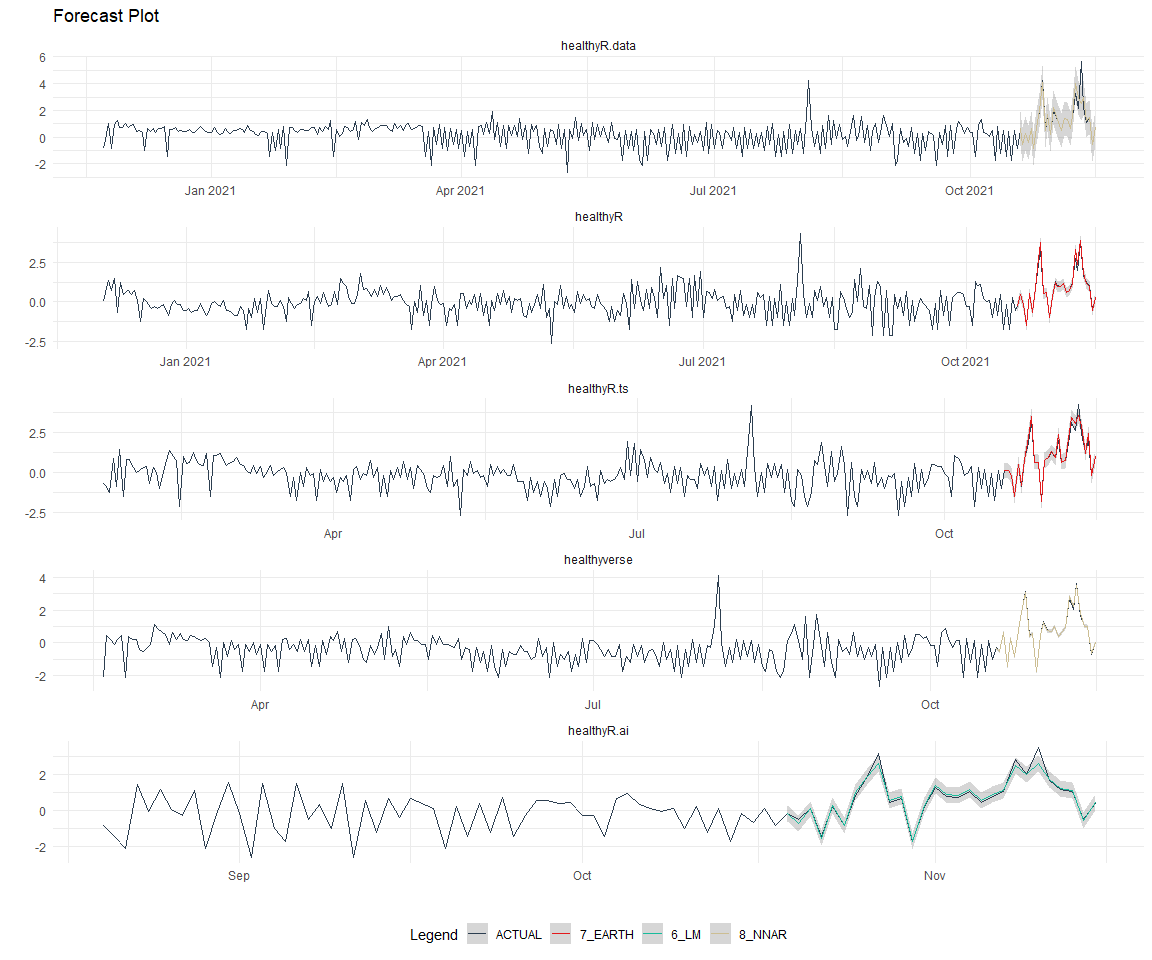
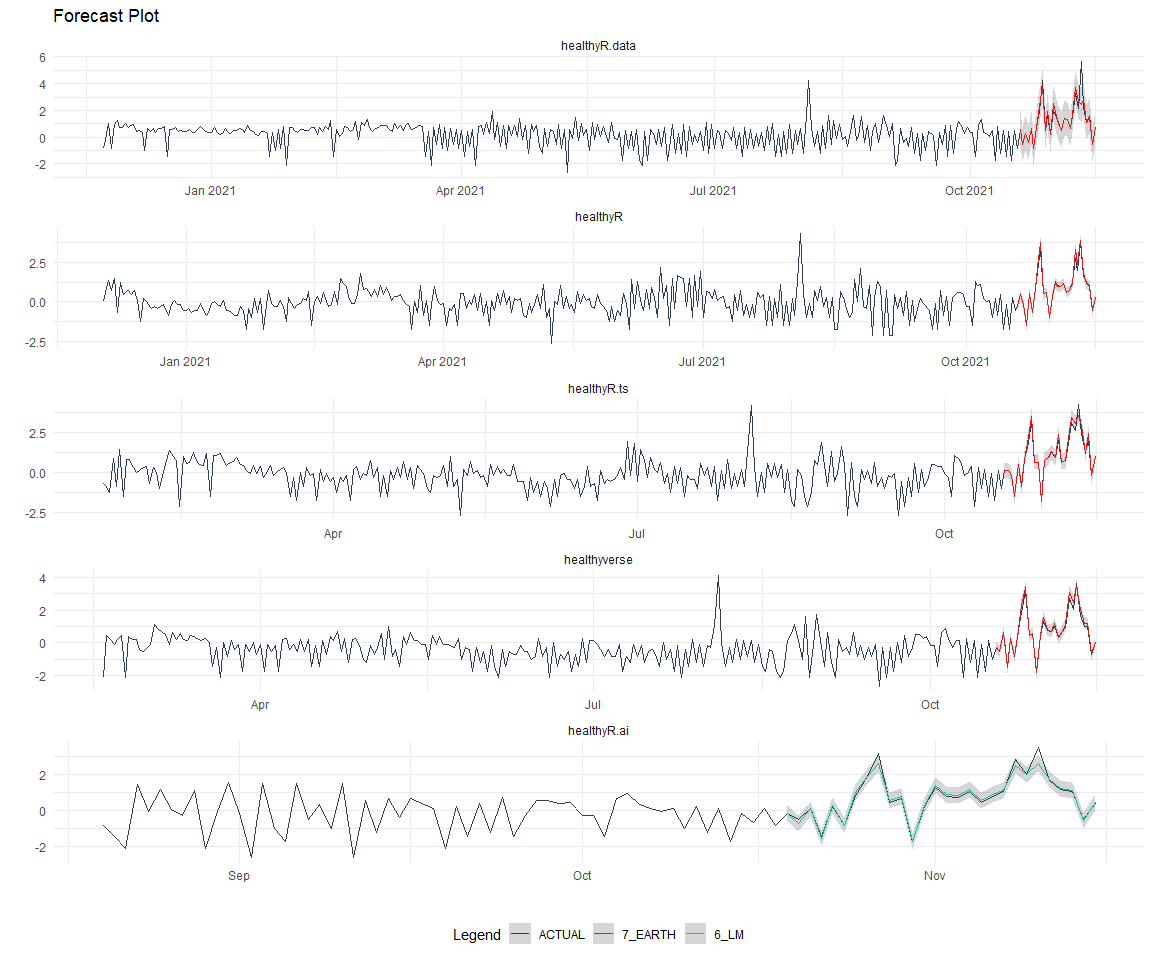
udpates

Changed region(s): [[0.3438, 0.9375, 0.6875, 1.0], [0.8438, 0.625, 0.9375, 0.6875], [0.9062, 0.0938, 0.9375, 0.125]]

diff --git a/README.md b/README.md
@@ -1,7 +1,7 @@
 Time Series Analysis and Modeling of the Healthyverse Packages
 ================
 Steven P. Sanderson II, MPH - Data Scientist/IT Manager
-15 December, 2021
+16 December, 2021
 
 ## Get Data
 
@@ -505,7 +505,7 @@ nested_modeltime_tbl %>%
 | healthyR.data |          5 | NULL                       | NA    |        NA |         NA |        NA |         NA |        NA |        NA |
 | healthyR.data |          6 | LM                         | Test  | 0.2616084 |  11.390889 | 0.1920097 |  12.391657 | 0.7674836 | 0.7418598 |
 | healthyR.data |          7 | EARTH                      | Test  | 0.2466411 |   8.369078 | 0.1810243 |   8.745561 | 0.6527079 | 0.7782783 |
-| healthyR.data |          8 | NNAR                       | Test  | 0.2217371 |   7.360063 | 0.1627458 |   7.637528 | 0.6444284 | 0.7834651 |
+| healthyR.data |          8 | NNAR                       | Test  | 0.2427884 |   8.559619 | 0.1781966 |   8.569214 | 0.6597564 | 0.7739675 |
 | healthyR.data |          9 | PROPHET W REGRESSORS       | Test  | 0.2487991 |   9.131470 | 0.1826082 |  10.448381 | 0.7717903 | 0.7479554 |
 | healthyR.data |         10 | PROPHET W XGBOOST ERRORS   | Test  | 0.7449067 |  49.491371 | 0.5467306 |  68.989090 | 1.1628847 | 0.7313771 |
 | healthyR.data |         11 | SEASONAL DECOMP REGRESSION | Test  | 0.7868014 |  87.585330 | 0.5774796 |  72.434713 | 1.0979308 | 0.5319671 |
@@ -520,7 +520,7 @@ nested_modeltime_tbl %>%
 | healthyR      |          5 | NULL                       | NA    |        NA |         NA |        NA |         NA |        NA |        NA |
 | healthyR      |          6 | LM                         | Test  | 0.1223055 |   8.620244 | 0.1206279 |   8.625375 | 0.2564429 | 0.9631368 |
 | healthyR      |          7 | EARTH                      | Test  | 0.0792178 |   3.824511 | 0.0781312 |   3.621010 | 0.1704276 | 0.9912538 |
-| healthyR      |          8 | NNAR                       | Test  | 0.1484895 |   7.174434 | 0.1464527 |   6.574972 | 0.3266857 | 0.9810757 |
+| healthyR      |          8 | NNAR                       | Test  | 0.1418900 |   6.635275 | 0.1399437 |   6.050674 | 0.3263375 | 0.9804869 |
 | healthyR      |          9 | PROPHET W REGRESSORS       | Test  | 0.1154213 |   7.745281 | 0.1138381 |   7.836908 | 0.2549914 | 0.9654687 |
 | healthyR      |         10 | PROPHET W XGBOOST ERRORS   | Test  | 0.3940583 |  32.009347 | 0.3886531 |  41.685767 | 0.5764835 | 0.9699969 |
 | healthyR      |         11 | SEASONAL DECOMP REGRESSION | Test  | 0.7209894 | 122.759436 | 0.7110998 |  75.498101 | 0.9478895 | 0.6999186 |
@@ -535,7 +535,7 @@ nested_modeltime_tbl %>%
 | healthyR.ts   |          5 | NULL                       | NA    |        NA |         NA |        NA |         NA |        NA |        NA |
 | healthyR.ts   |          6 | LM                         | Test  | 0.1612879 |  10.405596 | 0.1385415 |  10.405055 | 0.3473217 | 0.9486307 |
 | healthyR.ts   |          7 | EARTH                      | Test  | 0.1430441 |   6.959687 | 0.1228706 |   6.646028 | 0.2427411 | 0.9743213 |
-| healthyR.ts   |          8 | NNAR                       | Test  | 0.2039895 |   9.605184 | 0.1752209 |   8.787299 | 0.3722855 | 0.9543569 |
+| healthyR.ts   |          8 | NNAR                       | Test  | 0.2061114 |   9.332112 | 0.1770435 |   8.433951 | 0.3866174 | 0.9505860 |
 | healthyR.ts   |          9 | PROPHET W REGRESSORS       | Test  | 0.1546600 |   9.895933 | 0.1328484 |   9.939028 | 0.3456932 | 0.9508419 |
 | healthyR.ts   |         10 | PROPHET W XGBOOST ERRORS   | Test  | 0.6328368 |  44.741135 | 0.5435879 |  59.065064 | 0.8806863 | 0.9001871 |
 | healthyR.ts   |         11 | SEASONAL DECOMP REGRESSION | Test  | 1.0106370 | 212.013307 | 0.8681071 |  89.761107 | 1.2185700 | 0.6407592 |
@@ -550,7 +550,7 @@ nested_modeltime_tbl %>%
 | healthyverse  |          5 | NULL                       | NA    |        NA |         NA |        NA |         NA |        NA |        NA |
 | healthyverse  |          6 | LM                         | Test  | 0.1138545 |  12.599464 | 0.1035343 |  15.842506 | 0.2159928 | 0.9734896 |
 | healthyverse  |          7 | EARTH                      | Test  | 0.1178451 |   9.708191 | 0.1071631 |   9.514803 | 0.1896264 | 0.9888331 |
-| healthyverse  |          8 | NNAR                       | Test  | 0.0348703 |   5.650246 | 0.0317095 |   7.898382 | 0.0611132 | 0.9975080 |
+| healthyverse  |          8 | NNAR                       | Test  | 0.0996135 |   8.060337 | 0.0905841 |   7.043495 | 0.2102197 | 0.9781731 |
 | healthyverse  |          9 | PROPHET W REGRESSORS       | Test  | 0.1103120 |  14.305270 | 0.1003129 |  15.530062 | 0.2095755 | 0.9748133 |
 | healthyverse  |         10 | PROPHET W XGBOOST ERRORS   | Test  | 0.5850963 |  78.958511 | 0.5320609 |  83.826515 | 0.7495393 | 0.9781054 |
 | healthyverse  |         11 | SEASONAL DECOMP REGRESSION | Test  | 0.8137411 | 231.550647 | 0.7399805 |  92.702073 | 1.0055602 | 0.6701211 |
@@ -565,7 +565,7 @@ nested_modeltime_tbl %>%
 | healthyR.ai   |          5 | NULL                       | NA    |        NA |         NA |        NA |         NA |        NA |        NA |
 | healthyR.ai   |          6 | LM                         | Test  | 0.1324935 |  14.205349 | 0.1244833 |  14.020712 | 0.2244611 | 0.9705701 |
 | healthyR.ai   |          7 | EARTH                      | Test  | 0.1056106 |   5.301133 | 0.0992257 |   5.634894 | 0.2632374 | 0.9725788 |
-| healthyR.ai   |          8 | NNAR                       | Test  | 0.3733719 |  27.973299 | 0.3507988 |  35.443509 | 0.6092379 | 0.9072566 |
+| healthyR.ai   |          8 | NNAR                       | Test  | 0.3837259 |  30.221875 | 0.3605268 |  40.157955 | 0.6187679 | 0.9055486 |
 | healthyR.ai   |          9 | PROPHET W REGRESSORS       | Test  | 0.1358911 |  16.090080 | 0.1276754 |  17.449924 | 0.2250037 | 0.9696245 |
 | healthyR.ai   |         10 | PROPHET W XGBOOST ERRORS   | Test  | 0.5227073 |  37.328225 | 0.4911056 |  48.896908 | 0.8345560 | 0.8147540 |
 | healthyR.ai   |         11 | SEASONAL DECOMP REGRESSION | Test  | 1.0369711 | 215.169608 | 0.9742783 |  97.397042 | 1.4253695 | 0.4857779 |
@@ -607,13 +607,13 @@ best_nested_modeltime_tbl %>%
 
     ## # Nested Modeltime Table
     ##   # A tibble: 5 x 10
-    ##   package     .model_id .model_desc .type    mae  mape   mase smape   rmse   rsq
-    ##   <chr>           <int> <chr>       <chr>  <dbl> <dbl>  <dbl> <dbl>  <dbl> <dbl>
-    ## 1 healthyR.d~         8 NNAR        Test  0.222   7.36 0.163   7.64 0.644  0.783
-    ## 2 healthyR            7 EARTH       Test  0.0792  3.82 0.0781  3.62 0.170  0.991
-    ## 3 healthyR.ts         7 EARTH       Test  0.143   6.96 0.123   6.65 0.243  0.974
-    ## 4 healthyver~         8 NNAR        Test  0.0349  5.65 0.0317  7.90 0.0611 0.998
-    ## 5 healthyR.ai         6 LM          Test  0.132  14.2  0.124  14.0  0.224  0.971
+    ##   package      .model_id .model_desc .type    mae  mape   mase smape  rmse   rsq
+    ##   <chr>            <int> <chr>       <chr>  <dbl> <dbl>  <dbl> <dbl> <dbl> <dbl>
+    ## 1 healthyR.da~         7 EARTH       Test  0.247   8.37 0.181   8.75 0.653 0.778
+    ## 2 healthyR             7 EARTH       Test  0.0792  3.82 0.0781  3.62 0.170 0.991
+    ## 3 healthyR.ts          7 EARTH       Test  0.143   6.96 0.123   6.65 0.243 0.974
+    ## 4 healthyverse         7 EARTH       Test  0.118   9.71 0.107   9.51 0.190 0.989
+    ## 5 healthyR.ai          6 LM          Test  0.132  14.2  0.124  14.0  0.224 0.971
 
 ``` r
 best_nested_modeltime_tbl %>%
